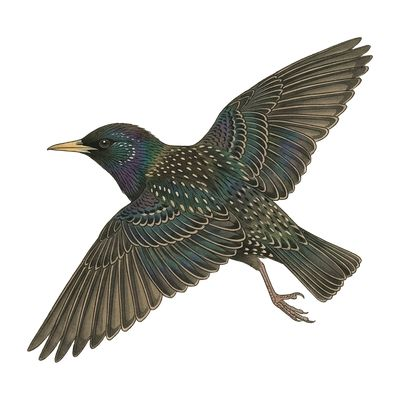
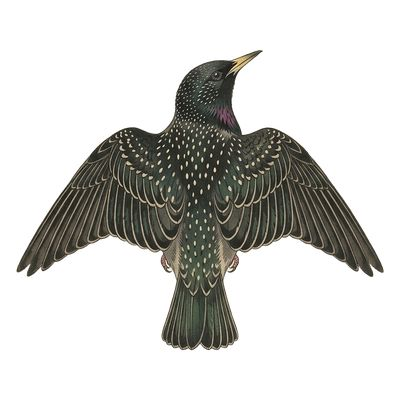
fix(illustrations): repaint the starling with songbird feet and true colour
The first starling had hooked, raptor-like claws, a dangling leg in flight
and a rainbow sheen. A species note now asks for small wrapped toes,
legs tucked in flight, and black plumage with only a faint gloss.

diff --git a/web-ui/src/lib/painted-species.ts b/web-ui/src/lib/painted-species.ts
@@ -329,8 +329,8 @@ export const PAINTED_BOUNDS: Record<string, PaintedBounds> = {
 	"strix-varia-2": [19, 58, 442, 364],
 	"sturnella-magna": [46, 19, 387, 442],
 	"sturnella-magna-2": [20, 31, 440, 418],
-	"sturnus-vulgaris": [41, 68, 399, 393],
-	"sturnus-vulgaris-2": [32, 44, 416, 392],
+	"sturnus-vulgaris": [38, 19, 403, 441],
+	"sturnus-vulgaris-2": [19, 60, 442, 361],
 	"tamias-striatus": [32, 84, 417, 377],
 	"thryothorus-ludovicianus": [36, 54, 407, 407],
 	"thryothorus-ludovicianus-2": [48, 61, 384, 358],
